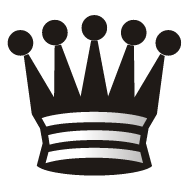
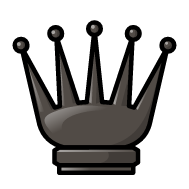
images should render now

diff --git a/src/board/square.js b/src/board/square.js
@@ -43,9 +43,12 @@ function get_color(light, theme) {
 
 function PieceImg({ piece }) {
   const { theme } = useContext(AppContext);
-  const path = `${
-    process.env.PUBLIC_URL
-  }/Images/pieces/${theme.toLowerCase()}/${piece.color.toLowerCase()}${piece.piece.toUpperCase()}.png`;
+  // const path = `${
+  //   process.env.PUBLIC_URL
+  // }/Images/pieces/${theme.toLowerCase()}/${piece.color.toLowerCase()}${piece.piece.toUpperCase()}.png`;
+  const path = `https://raw.githubusercontent.com/BibekBhusal0/Chess/main/public/Images/pieces/${theme.toLowerCase()}/${
+    piece.color.toLowerCase() + piece.piece.toUpperCase()
+  }.png`;
   return (
     <img
       src={path}
